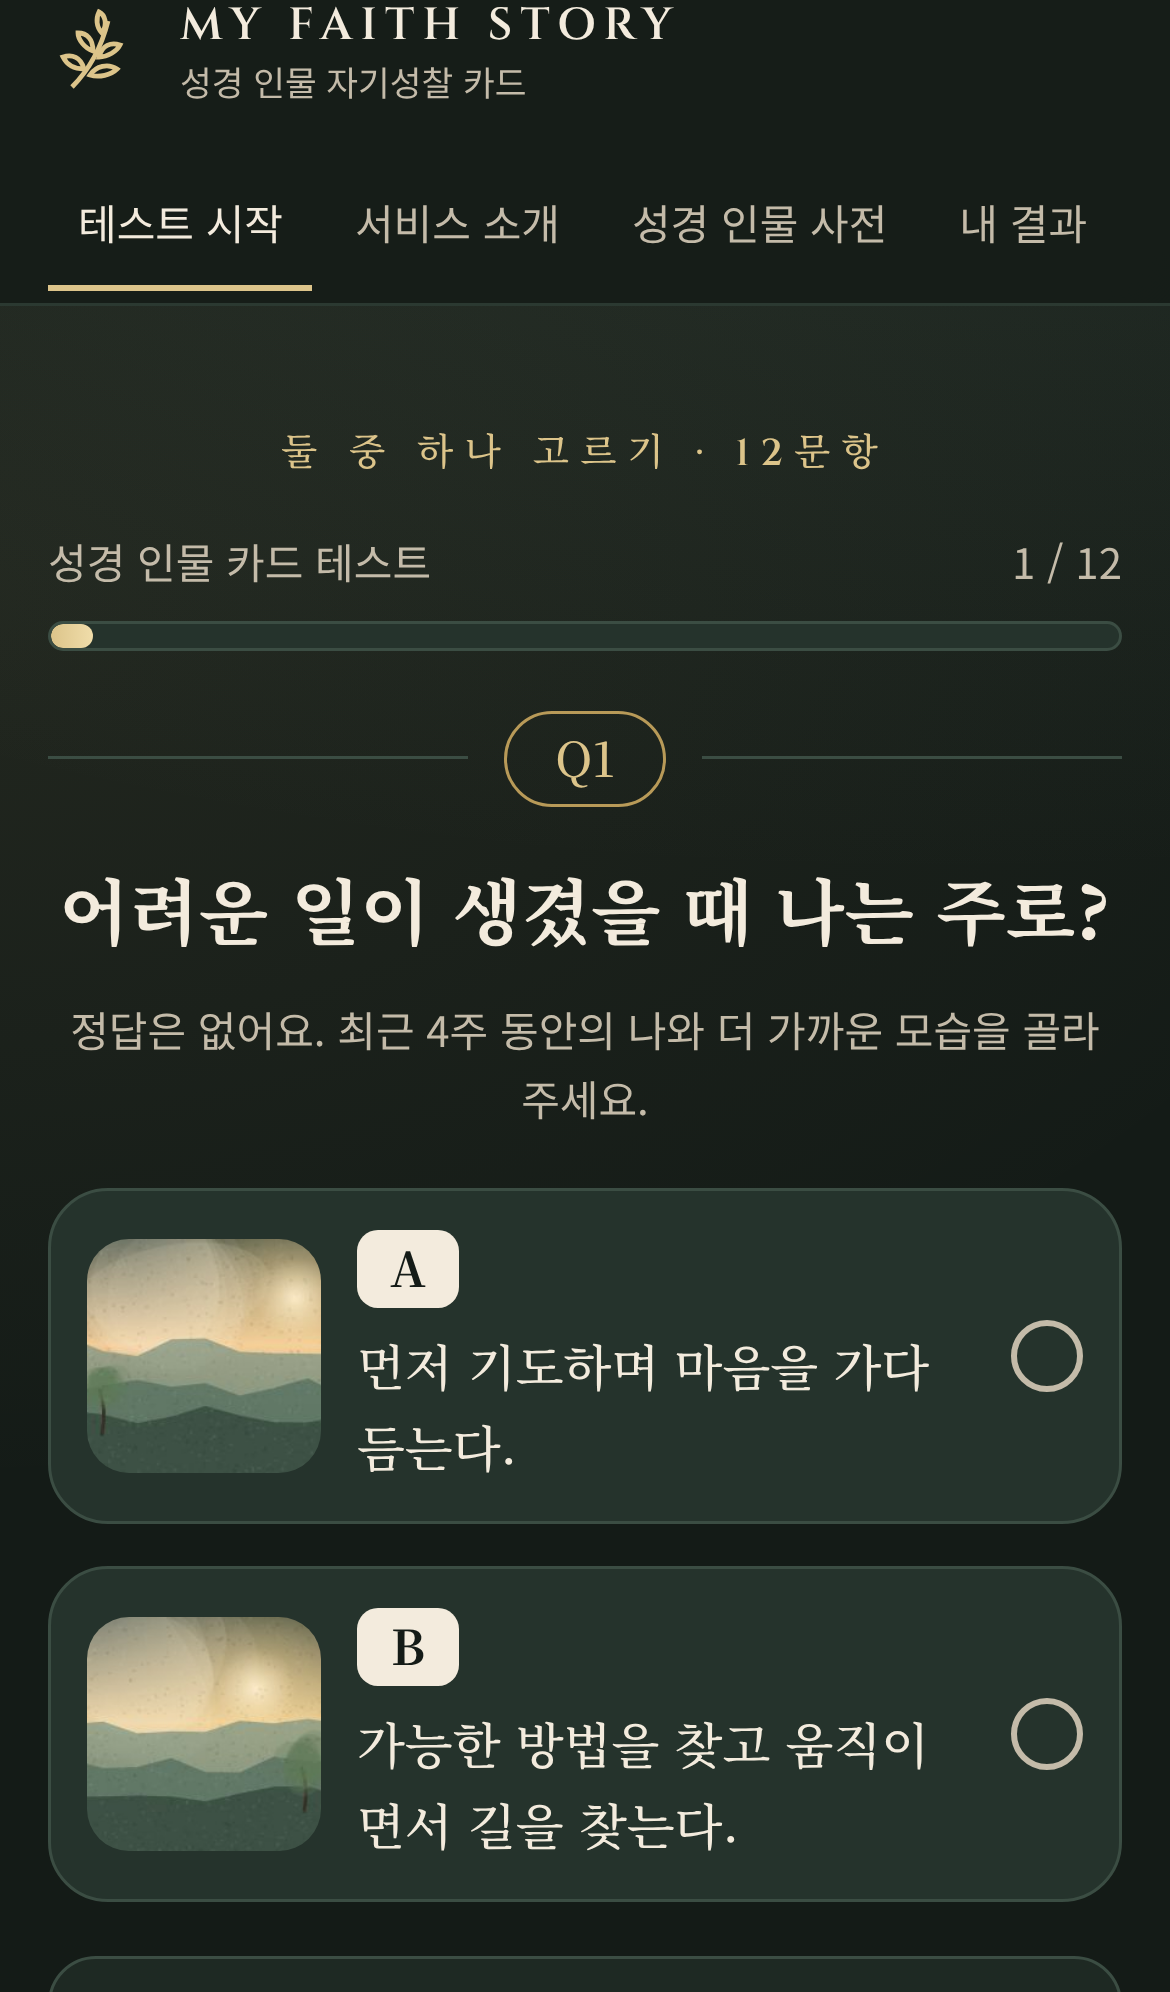
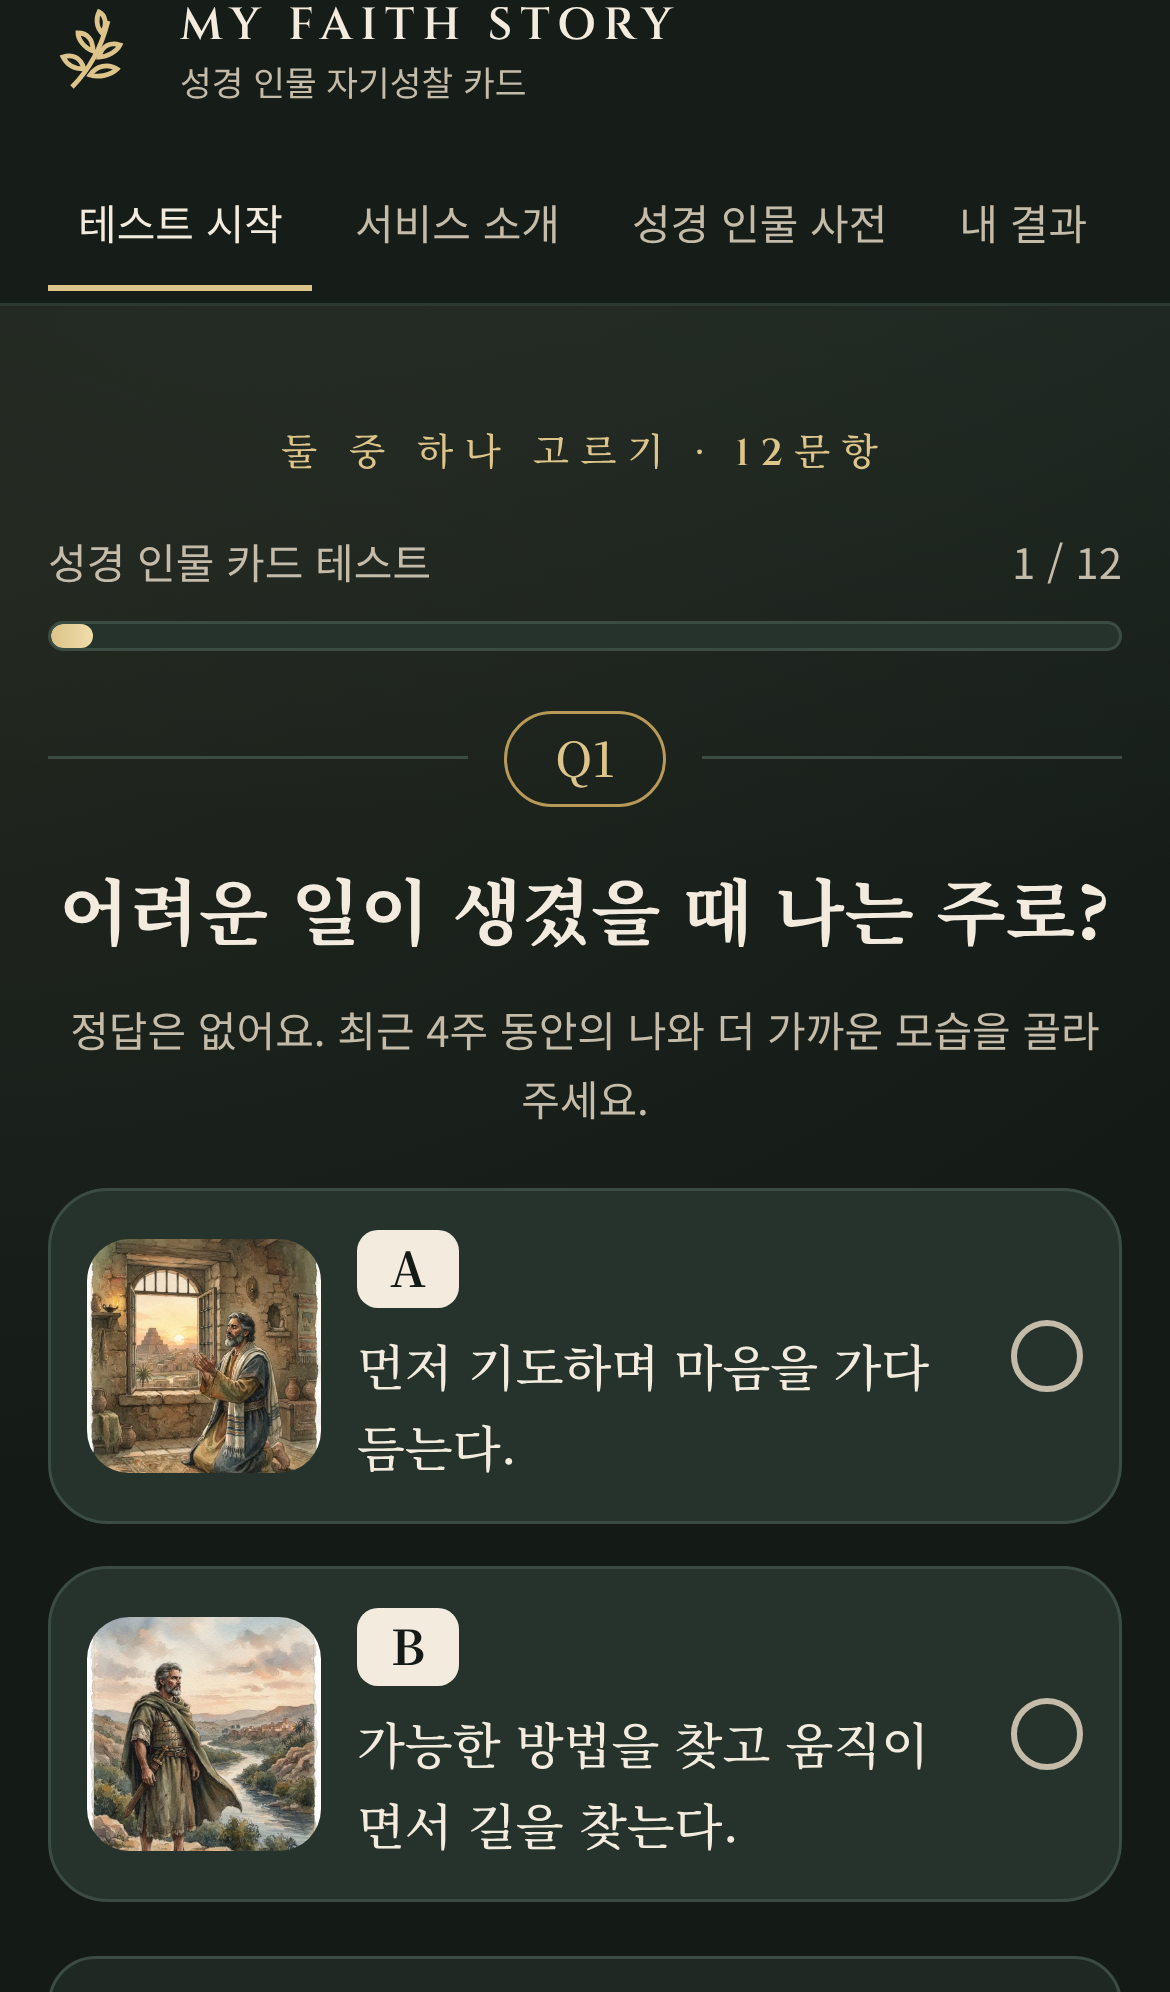
Quiz options: show generated watercolor illustrations instead of placeholder landscapes
Decorative mood-matched images for all 24 options; no names shown and the
matching engine never reads this table.

Claude-Session: https://claude.ai/code/session_014c9vFgBS4BdK9e3m5zEueQ

Changed region(s): [[0.0615, 0.8092, 0.2769, 0.9337], [0.0615, 0.6225, 0.2769, 0.747]]

diff --git a/dist/index.html b/dist/index.html
@@ -109,6 +109,7 @@ h1, h2, h3 { font-family: var(--serif); font-weight: 700; text-wrap: balance; li
 .opt input { position: absolute; opacity: 0; pointer-events: none; }
 .opt .art { width: 112px; height: 96px; border-radius: 14px; overflow: hidden; background: var(--bg-2); }
 .opt .art img { width: 100%; height: 100%; object-fit: cover; display: block; }
+.opt .art img.art-photo { object-position: 50% 28%; }
 .opt .k { display: inline-grid; place-items: center; width: 34px; height: 26px; border-radius: 7px; background: var(--ivory); color: var(--bg); font-weight: 700; font-family: var(--serif); margin-bottom: 6px; }
 .opt .t { font-size: 18px; font-family: var(--serif); line-height: 1.45; }
 .opt .dot { width: 24px; height: 24px; border-radius: 50%; border: 2px solid var(--muted); }
@@ -1919,6 +1920,16 @@ window.MFS_PORTRAITS=["nt-peter","ot-abraham","ot-asaph","ot-daniel","ot-david",
   }
 
   const optArt = new Map();
+  // Illustration for each answer option, picked by mood (praying, resting, reading…). Decorative only:
+  // no name is shown and the matching engine never uses this table, so it is not an option→character mapping.
+  const OPTION_ART = {
+    'Q01-A': 'ot-daniel', 'Q01-B': 'ot-joshua', 'Q02-A': 'ot-solomon', 'Q02-B': 'ot-noah',
+    'Q03-A': 'ot-ezra', 'Q03-B': 'ot-nehemiah', 'Q04-A': 'ot-enoch', 'Q04-B': 'ot-jeremiah',
+    'Q05-A': 'ot-hannah', 'Q05-B': 'ot-hezekiah', 'Q06-A': 'ot-elijah', 'Q06-B': 'ot-job',
+    'Q07-A': 'ot-samuel', 'Q07-B': 'ot-miriam', 'Q08-A': 'ot-asaph', 'Q08-B': 'ot-gideon',
+    'Q09-A': 'nt-peter', 'Q09-B': 'ot-jacob', 'Q10-A': 'ot-jehoshaphat', 'Q10-B': 'ot-isaac',
+    'Q11-A': 'ot-elisha', 'Q11-B': 'ot-joseph', 'Q12-A': 'ot-moses', 'Q12-B': 'ot-abraham',
+  };
   function quiz() {
     if (complete() && S.idx >= 12) S.idx = 11;
     const i = Math.max(0, Math.min(11, S.idx || 0)); const q = D.QUESTIONS[i];
@@ -1950,7 +1961,9 @@ window.MFS_PORTRAITS=["nt-peter","ot-abraham","ot-asaph","ot-daniel","ot-david",
         <p class="small muted" style="text-align:center;margin-top:18px">검사를 중간에 나가도 이 브라우저 탭에서는 이어서 할 수 있어요. 탭을 닫으면 응답이 지워져요.</p>
       </div></section>`;
     $app.querySelectorAll('img[data-art]').forEach(img => {
-      const k = img.dataset.art; if (!optArt.has(k)) optArt.set(k, RENDER.sceneURL('opt-' + k, 224, 192)); img.src = optArt.get(k);
+      const k = img.dataset.art, pid = OPTION_ART[k];
+      if (pid && RENDER.hasPortrait(pid)) { img.src = RENDER.portraitSrc(pid); img.classList.add('art-photo'); return; }
+      if (!optArt.has(k)) optArt.set(k, RENDER.sceneURL('opt-' + k, 224, 192)); img.src = optArt.get(k);
     });
     let submitting = false, advanceTimer = null;
     const advance = () => {

diff --git a/dist/standalone.html b/dist/standalone.html
@@ -111,6 +111,7 @@ h1, h2, h3 { font-family: var(--serif); font-weight: 700; text-wrap: balance; li
 .opt input { position: absolute; opacity: 0; pointer-events: none; }
 .opt .art { width: 112px; height: 96px; border-radius: 14px; overflow: hidden; background: var(--bg-2); }
 .opt .art img { width: 100%; height: 100%; object-fit: cover; display: block; }
+.opt .art img.art-photo { object-position: 50% 28%; }
 .opt .k { display: inline-grid; place-items: center; width: 34px; height: 26px; border-radius: 7px; background: var(--ivory); color: var(--bg); font-weight: 700; font-family: var(--serif); margin-bottom: 6px; }
 .opt .t { font-size: 18px; font-family: var(--serif); line-height: 1.45; }
 .opt .dot { width: 24px; height: 24px; border-radius: 50%; border: 2px solid var(--muted); }
@@ -1921,6 +1922,16 @@ window.MFS_PORTRAITS=["nt-peter","ot-abraham","ot-asaph","ot-daniel","ot-david",
   }
 
   const optArt = new Map();
+  // Illustration for each answer option, picked by mood (praying, resting, reading…). Decorative only:
+  // no name is shown and the matching engine never uses this table, so it is not an option→character mapping.
+  const OPTION_ART = {
+    'Q01-A': 'ot-daniel', 'Q01-B': 'ot-joshua', 'Q02-A': 'ot-solomon', 'Q02-B': 'ot-noah',
+    'Q03-A': 'ot-ezra', 'Q03-B': 'ot-nehemiah', 'Q04-A': 'ot-enoch', 'Q04-B': 'ot-jeremiah',
+    'Q05-A': 'ot-hannah', 'Q05-B': 'ot-hezekiah', 'Q06-A': 'ot-elijah', 'Q06-B': 'ot-job',
+    'Q07-A': 'ot-samuel', 'Q07-B': 'ot-miriam', 'Q08-A': 'ot-asaph', 'Q08-B': 'ot-gideon',
+    'Q09-A': 'nt-peter', 'Q09-B': 'ot-jacob', 'Q10-A': 'ot-jehoshaphat', 'Q10-B': 'ot-isaac',
+    'Q11-A': 'ot-elisha', 'Q11-B': 'ot-joseph', 'Q12-A': 'ot-moses', 'Q12-B': 'ot-abraham',
+  };
   function quiz() {
     if (complete() && S.idx >= 12) S.idx = 11;
     const i = Math.max(0, Math.min(11, S.idx || 0)); const q = D.QUESTIONS[i];
@@ -1952,7 +1963,9 @@ window.MFS_PORTRAITS=["nt-peter","ot-abraham","ot-asaph","ot-daniel","ot-david",
         <p class="small muted" style="text-align:center;margin-top:18px">검사를 중간에 나가도 이 브라우저 탭에서는 이어서 할 수 있어요. 탭을 닫으면 응답이 지워져요.</p>
       </div></section>`;
     $app.querySelectorAll('img[data-art]').forEach(img => {
-      const k = img.dataset.art; if (!optArt.has(k)) optArt.set(k, RENDER.sceneURL('opt-' + k, 224, 192)); img.src = optArt.get(k);
+      const k = img.dataset.art, pid = OPTION_ART[k];
+      if (pid && RENDER.hasPortrait(pid)) { img.src = RENDER.portraitSrc(pid); img.classList.add('art-photo'); return; }
+      if (!optArt.has(k)) optArt.set(k, RENDER.sceneURL('opt-' + k, 224, 192)); img.src = optArt.get(k);
     });
     let submitting = false, advanceTimer = null;
     const advance = () => {

diff --git a/hosting/index.html b/hosting/index.html
@@ -121,6 +121,7 @@ h1, h2, h3 { font-family: var(--serif); font-weight: 700; text-wrap: balance; li
 .opt input { position: absolute; opacity: 0; pointer-events: none; }
 .opt .art { width: 112px; height: 96px; border-radius: 14px; overflow: hidden; background: var(--bg-2); }
 .opt .art img { width: 100%; height: 100%; object-fit: cover; display: block; }
+.opt .art img.art-photo { object-position: 50% 28%; }
 .opt .k { display: inline-grid; place-items: center; width: 34px; height: 26px; border-radius: 7px; background: var(--ivory); color: var(--bg); font-weight: 700; font-family: var(--serif); margin-bottom: 6px; }
 .opt .t { font-size: 18px; font-family: var(--serif); line-height: 1.45; }
 .opt .dot { width: 24px; height: 24px; border-radius: 50%; border: 2px solid var(--muted); }
@@ -1931,6 +1932,16 @@ window.MFS_PORTRAITS=["nt-peter","ot-abraham","ot-asaph","ot-daniel","ot-david",
   }
 
   const optArt = new Map();
+  // Illustration for each answer option, picked by mood (praying, resting, reading…). Decorative only:
+  // no name is shown and the matching engine never uses this table, so it is not an option→character mapping.
+  const OPTION_ART = {
+    'Q01-A': 'ot-daniel', 'Q01-B': 'ot-joshua', 'Q02-A': 'ot-solomon', 'Q02-B': 'ot-noah',
+    'Q03-A': 'ot-ezra', 'Q03-B': 'ot-nehemiah', 'Q04-A': 'ot-enoch', 'Q04-B': 'ot-jeremiah',
+    'Q05-A': 'ot-hannah', 'Q05-B': 'ot-hezekiah', 'Q06-A': 'ot-elijah', 'Q06-B': 'ot-job',
+    'Q07-A': 'ot-samuel', 'Q07-B': 'ot-miriam', 'Q08-A': 'ot-asaph', 'Q08-B': 'ot-gideon',
+    'Q09-A': 'nt-peter', 'Q09-B': 'ot-jacob', 'Q10-A': 'ot-jehoshaphat', 'Q10-B': 'ot-isaac',
+    'Q11-A': 'ot-elisha', 'Q11-B': 'ot-joseph', 'Q12-A': 'ot-moses', 'Q12-B': 'ot-abraham',
+  };
   function quiz() {
     if (complete() && S.idx >= 12) S.idx = 11;
     const i = Math.max(0, Math.min(11, S.idx || 0)); const q = D.QUESTIONS[i];
@@ -1962,7 +1973,9 @@ window.MFS_PORTRAITS=["nt-peter","ot-abraham","ot-asaph","ot-daniel","ot-david",
         <p class="small muted" style="text-align:center;margin-top:18px">검사를 중간에 나가도 이 브라우저 탭에서는 이어서 할 수 있어요. 탭을 닫으면 응답이 지워져요.</p>
       </div></section>`;
     $app.querySelectorAll('img[data-art]').forEach(img => {
-      const k = img.dataset.art; if (!optArt.has(k)) optArt.set(k, RENDER.sceneURL('opt-' + k, 224, 192)); img.src = optArt.get(k);
+      const k = img.dataset.art, pid = OPTION_ART[k];
+      if (pid && RENDER.hasPortrait(pid)) { img.src = RENDER.portraitSrc(pid); img.classList.add('art-photo'); return; }
+      if (!optArt.has(k)) optArt.set(k, RENDER.sceneURL('opt-' + k, 224, 192)); img.src = optArt.get(k);
     });
     let submitting = false, advanceTimer = null;
     const advance = () => {

diff --git a/src/app.js b/src/app.js
@@ -316,6 +316,16 @@
   }
 
   const optArt = new Map();
+  // Illustration for each answer option, picked by mood (praying, resting, reading…). Decorative only:
+  // no name is shown and the matching engine never uses this table, so it is not an option→character mapping.
+  const OPTION_ART = {
+    'Q01-A': 'ot-daniel', 'Q01-B': 'ot-joshua', 'Q02-A': 'ot-solomon', 'Q02-B': 'ot-noah',
+    'Q03-A': 'ot-ezra', 'Q03-B': 'ot-nehemiah', 'Q04-A': 'ot-enoch', 'Q04-B': 'ot-jeremiah',
+    'Q05-A': 'ot-hannah', 'Q05-B': 'ot-hezekiah', 'Q06-A': 'ot-elijah', 'Q06-B': 'ot-job',
+    'Q07-A': 'ot-samuel', 'Q07-B': 'ot-miriam', 'Q08-A': 'ot-asaph', 'Q08-B': 'ot-gideon',
+    'Q09-A': 'nt-peter', 'Q09-B': 'ot-jacob', 'Q10-A': 'ot-jehoshaphat', 'Q10-B': 'ot-isaac',
+    'Q11-A': 'ot-elisha', 'Q11-B': 'ot-joseph', 'Q12-A': 'ot-moses', 'Q12-B': 'ot-abraham',
+  };
   function quiz() {
     if (complete() && S.idx >= 12) S.idx = 11;
     const i = Math.max(0, Math.min(11, S.idx || 0)); const q = D.QUESTIONS[i];
@@ -347,7 +357,9 @@
         <p class="small muted" style="text-align:center;margin-top:18px">검사를 중간에 나가도 이 브라우저 탭에서는 이어서 할 수 있어요. 탭을 닫으면 응답이 지워져요.</p>
       </div></section>`;
     $app.querySelectorAll('img[data-art]').forEach(img => {
-      const k = img.dataset.art; if (!optArt.has(k)) optArt.set(k, RENDER.sceneURL('opt-' + k, 224, 192)); img.src = optArt.get(k);
+      const k = img.dataset.art, pid = OPTION_ART[k];
+      if (pid && RENDER.hasPortrait(pid)) { img.src = RENDER.portraitSrc(pid); img.classList.add('art-photo'); return; }
+      if (!optArt.has(k)) optArt.set(k, RENDER.sceneURL('opt-' + k, 224, 192)); img.src = optArt.get(k);
     });
     let submitting = false, advanceTimer = null;
     const advance = () => {

diff --git a/src/style.css b/src/style.css
@@ -102,6 +102,7 @@ h1, h2, h3 { font-family: var(--serif); font-weight: 700; text-wrap: balance; li
 .opt input { position: absolute; opacity: 0; pointer-events: none; }
 .opt .art { width: 112px; height: 96px; border-radius: 14px; overflow: hidden; background: var(--bg-2); }
 .opt .art img { width: 100%; height: 100%; object-fit: cover; display: block; }
+.opt .art img.art-photo { object-position: 50% 28%; }
 .opt .k { display: inline-grid; place-items: center; width: 34px; height: 26px; border-radius: 7px; background: var(--ivory); color: var(--bg); font-weight: 700; font-family: var(--serif); margin-bottom: 6px; }
 .opt .t { font-size: 18px; font-family: var(--serif); line-height: 1.45; }
 .opt .dot { width: 24px; height: 24px; border-radius: 50%; border: 2px solid var(--muted); }
